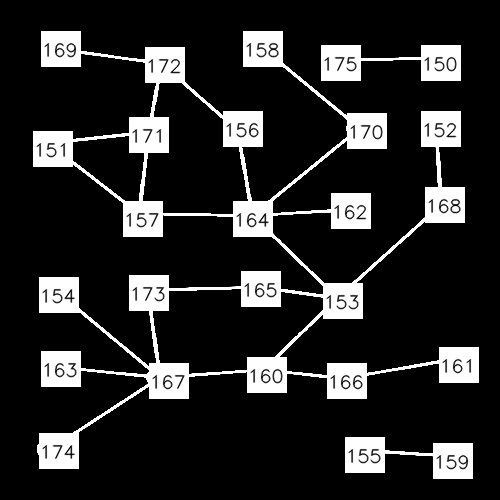
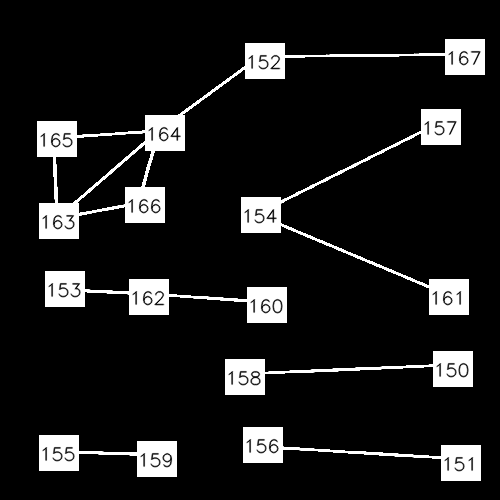
Refined Code

diff --git a/image_util_refined.py b/image_util_refined.py
@@ -1,0 +1,82 @@
+import PIL.ImageEnhance
+import PIL.ImageOps
+from PIL import Image
+import cv2
+import numpy as np
+import skeleton_creater
+
+def covert_image_greyscale(img):
+    img = img.resize((500, 500), Image.ANTIALIAS)
+    img = PIL.ImageOps.invert(img)
+    converter = PIL.ImageEnhance.Color(img)
+    img = converter.enhance(50)
+    converter2 = PIL.ImageEnhance.Contrast(img)
+    img = converter2.enhance(50)
+    return img
+
+
+def find_circles(img):
+    image_cols = 500
+    dp = 1
+    c1 = 100
+    c2 = 11
+    circles = cv2.HoughCircles(img, cv2.HOUGH_GRADIENT, dp, image_cols / 10, param1=c1, param2=c2,minRadius=0,maxRadius=15)
+    if circles is not None:
+        # convert the (x, y) coordinates and radius of the circles to integers
+        circles = np.round(circles[0, :]).astype("int")
+        return circles
+    return 0
+
+
+def write_numbers(img,circles):
+    i = 150
+    font = cv2.FONT_HERSHEY_SIMPLEX
+    for (x, y, r) in circles:
+        cv2.rectangle(img, (x-15, y-15), (x+24, y+20), (255, 255, 0), -1)
+        if i < 99:
+            cv2.putText(img, str(i), (x-10, y+10), font, 0.65, (0, 255, 0), 1, cv2.LINE_AA)
+        else:
+            cv2.putText(img, str(i), (x - 15, y + 10), font, 0.6, (0, 255, 0), 1, cv2.LINE_AA)
+        i = i + 1
+    return img
+
+
+def remove_boxes(img,circles):
+    for (x, y, r) in circles:
+        cv2.rectangle(img, (x-20, y-20), (x+24, y+20), (0, 0, 0), -1)
+    return img
+
+
+def detect_lines(img):
+    gray = cv2.cvtColor(img, cv2.COLOR_BGR2GRAY)
+    rho = 1  # distance resolution in pixels of the Hough grid
+    theta = np.pi / 180  # angular resolution in radians of the Hough grid
+    threshold = 25  # minimum number of votes (intersections in Hough grid cell)
+    min_line_length = 15  # minimum number of pixels making up a line
+    max_line_gap = 25  # maximum gap in pixels between connectable line segments
+    lines = cv2.HoughLinesP(gray, rho, theta, threshold, np.array([]), min_line_length, max_line_gap)
+    return lines
+
+
+img = Image.open('myfile1.png').convert('L')
+img = covert_image_greyscale(img)
+img = np.array(img)
+circles = find_circles(cv2.bitwise_not(img))
+img = write_numbers(img,circles)
+
+############code for line ###########
+
+img = remove_boxes(img,circles)
+img = cv2.cvtColor(img, cv2.COLOR_GRAY2BGR)
+img = skeleton_creater.create_skeleton(cv2.cvtColor(img, cv2.COLOR_BGR2GRAY))
+img = cv2.cvtColor(img, cv2.COLOR_GRAY2BGR)
+lines = detect_lines(img)
+line_image = np.copy(img) * 0  # creating a blank to draw lines on
+print(lines.shape)
+for line in lines:
+    for x1,y1,x2,y2 in line:
+        cv2.line(line_image, (x1, y1), (x2, y2), (255, 0, 255), 1)
+
+lines_edges = cv2.addWeighted(img, 0, line_image, 1, 0)
+
+cv2.imwrite('houghlines3.png',lines_edges)

diff --git a/image_util.py b/image_util.py
@@ -89,19 +89,24 @@ def detect_lines(img):
     low_threshold = 100
     high_threshold = 150
     edges = cv2.Canny(blur_gray, low_threshold, high_threshold)
+    # print(edges)
+    # print(img)
+    cv2.imshow("skel", gray)
+    cv2.waitKey(0)
+    cv2.destroyAllWindows()
     rho = 1  # distance resolution in pixels of the Hough grid
     theta = np.pi / 180  # angular resolution in radians of the Hough grid
-    threshold = 15  # minimum number of votes (intersections in Hough grid cell)
-    min_line_length = 5  # minimum number of pixels making up a line
-    max_line_gap = 20  # maximum gap in pixels between connectable line segments
+    threshold = 25  # minimum number of votes (intersections in Hough grid cell)
+    min_line_length = 15  # minimum number of pixels making up a line
+    max_line_gap = 25  # maximum gap in pixels between connectable line segments
     line_image = np.copy(img) * 0  # creating a blank to draw lines on
 
     # Run Hough on edge detected image
     # Output "lines" is an array containing endpoints of detected line segments
-    lines = cv2.HoughLinesP(edges, rho, theta, threshold, np.array([]), min_line_length, max_line_gap)
+    lines = cv2.HoughLinesP(gray, rho, theta, threshold, np.array([]), min_line_length, max_line_gap)
     return lines
 
-img = Image.open('myfile.png').convert('L')
+img = Image.open('myfile1.png').convert('L')
 img = covert_image_greyscale(img)
 img.save('grey.png')
 img = cv2.imread('grey.png',0)
@@ -141,12 +146,17 @@ cv2.imwrite("test1.png",img1)
 # # Run Hough on edge detected image
 # # Output "lines" is an array containing endpoints of detected line segments
 # lines = cv2.HoughLinesP(edges, rho, theta, threshold, np.array([]),min_line_length, max_line_gap)
-lines = detect_lines(img1)
+skel =cv2.imread("skeleton.png")
+
+# cv2.imshow("skel", skel)
+# cv2.waitKey(0)
+# cv2.destroyAllWindows()
+lines = detect_lines(skel)
 line_image = np.copy(img1) * 0  # creating a blank to draw lines on
 print(lines.shape)
 for line in lines:
     for x1,y1,x2,y2 in line:
-        cv2.line(line_image,(x1,y1),(x2,y2),(255,0,255),5)
+        cv2.line(line_image,(x1,y1),(x2,y2),(255,0,255),1)
 
 lines_edges = cv2.addWeighted(img1, 0, line_image, 1, 0)
 

diff --git a/skeleton_creater.py b/skeleton_creater.py
@@ -1,34 +1,24 @@
-import PIL.ImageEnhance
-import PIL.ImageOps
-from PIL import Image
 import cv2
 import numpy as np
-from matplotlib import pyplot as plt
-import pytesseract
 
-img = cv2.imread('test1.png', 0)
 
-cv2.imshow("skel", img)
-cv2.waitKey(0)
-cv2.destroyAllWindows()
-size = np.size(img)
-skel = np.zeros(img.shape, np.uint8)
+def create_skeleton(img):
+    size = np.size(img)
+    skel = np.zeros(img.shape, np.uint8)
 
-ret, img = cv2.threshold(img, 127, 255, 0)
-element = cv2.getStructuringElement(cv2.MORPH_CROSS, (3, 3))
-done = False
+    ret, img = cv2.threshold(img, 127, 255, 0)
+    element = cv2.getStructuringElement(cv2.MORPH_CROSS, (3, 3))
+    done = False
 
-while (not done):
-    eroded = cv2.erode(img, element)
-    temp = cv2.dilate(eroded, element)
-    temp = cv2.subtract(img, temp)
-    skel = cv2.bitwise_or(skel, temp)
-    img = eroded.copy()
+    while (not done):
+        eroded = cv2.erode(img, element)
+        temp = cv2.dilate(eroded, element)
+        temp = cv2.subtract(img, temp)
+        skel = cv2.bitwise_or(skel, temp)
+        img = eroded.copy()
 
-    zeros = size - cv2.countNonZero(img)
-    if zeros == size:
-        done = True
+        zeros = size - cv2.countNonZero(img)
+        if zeros == size:
+            done = True
 
-cv2.imshow("skel", skel)
-cv2.waitKey(0)
-cv2.destroyAllWindows()
+    return skel

diff --git a/line_merging_utility.py b/line_merging_utility.py
@@ -7,5 +7,15 @@ from matplotlib import pyplot as plt
 import pytesseract
 
 def merge_lines(lines):
+    for line in lines:
+        for x1, y1, x2, y2 in line:
+
 
     return 0
+
+def is_intersect(rect1, rect2):
+    if rect1.min_x > rect2.max_x or rect1.max_x < rect2.min_x:
+        return False
+    if rect1.min_y > rect2.max_y or rect1.max_y < rect2.min_y:
+        return False
+    return True
